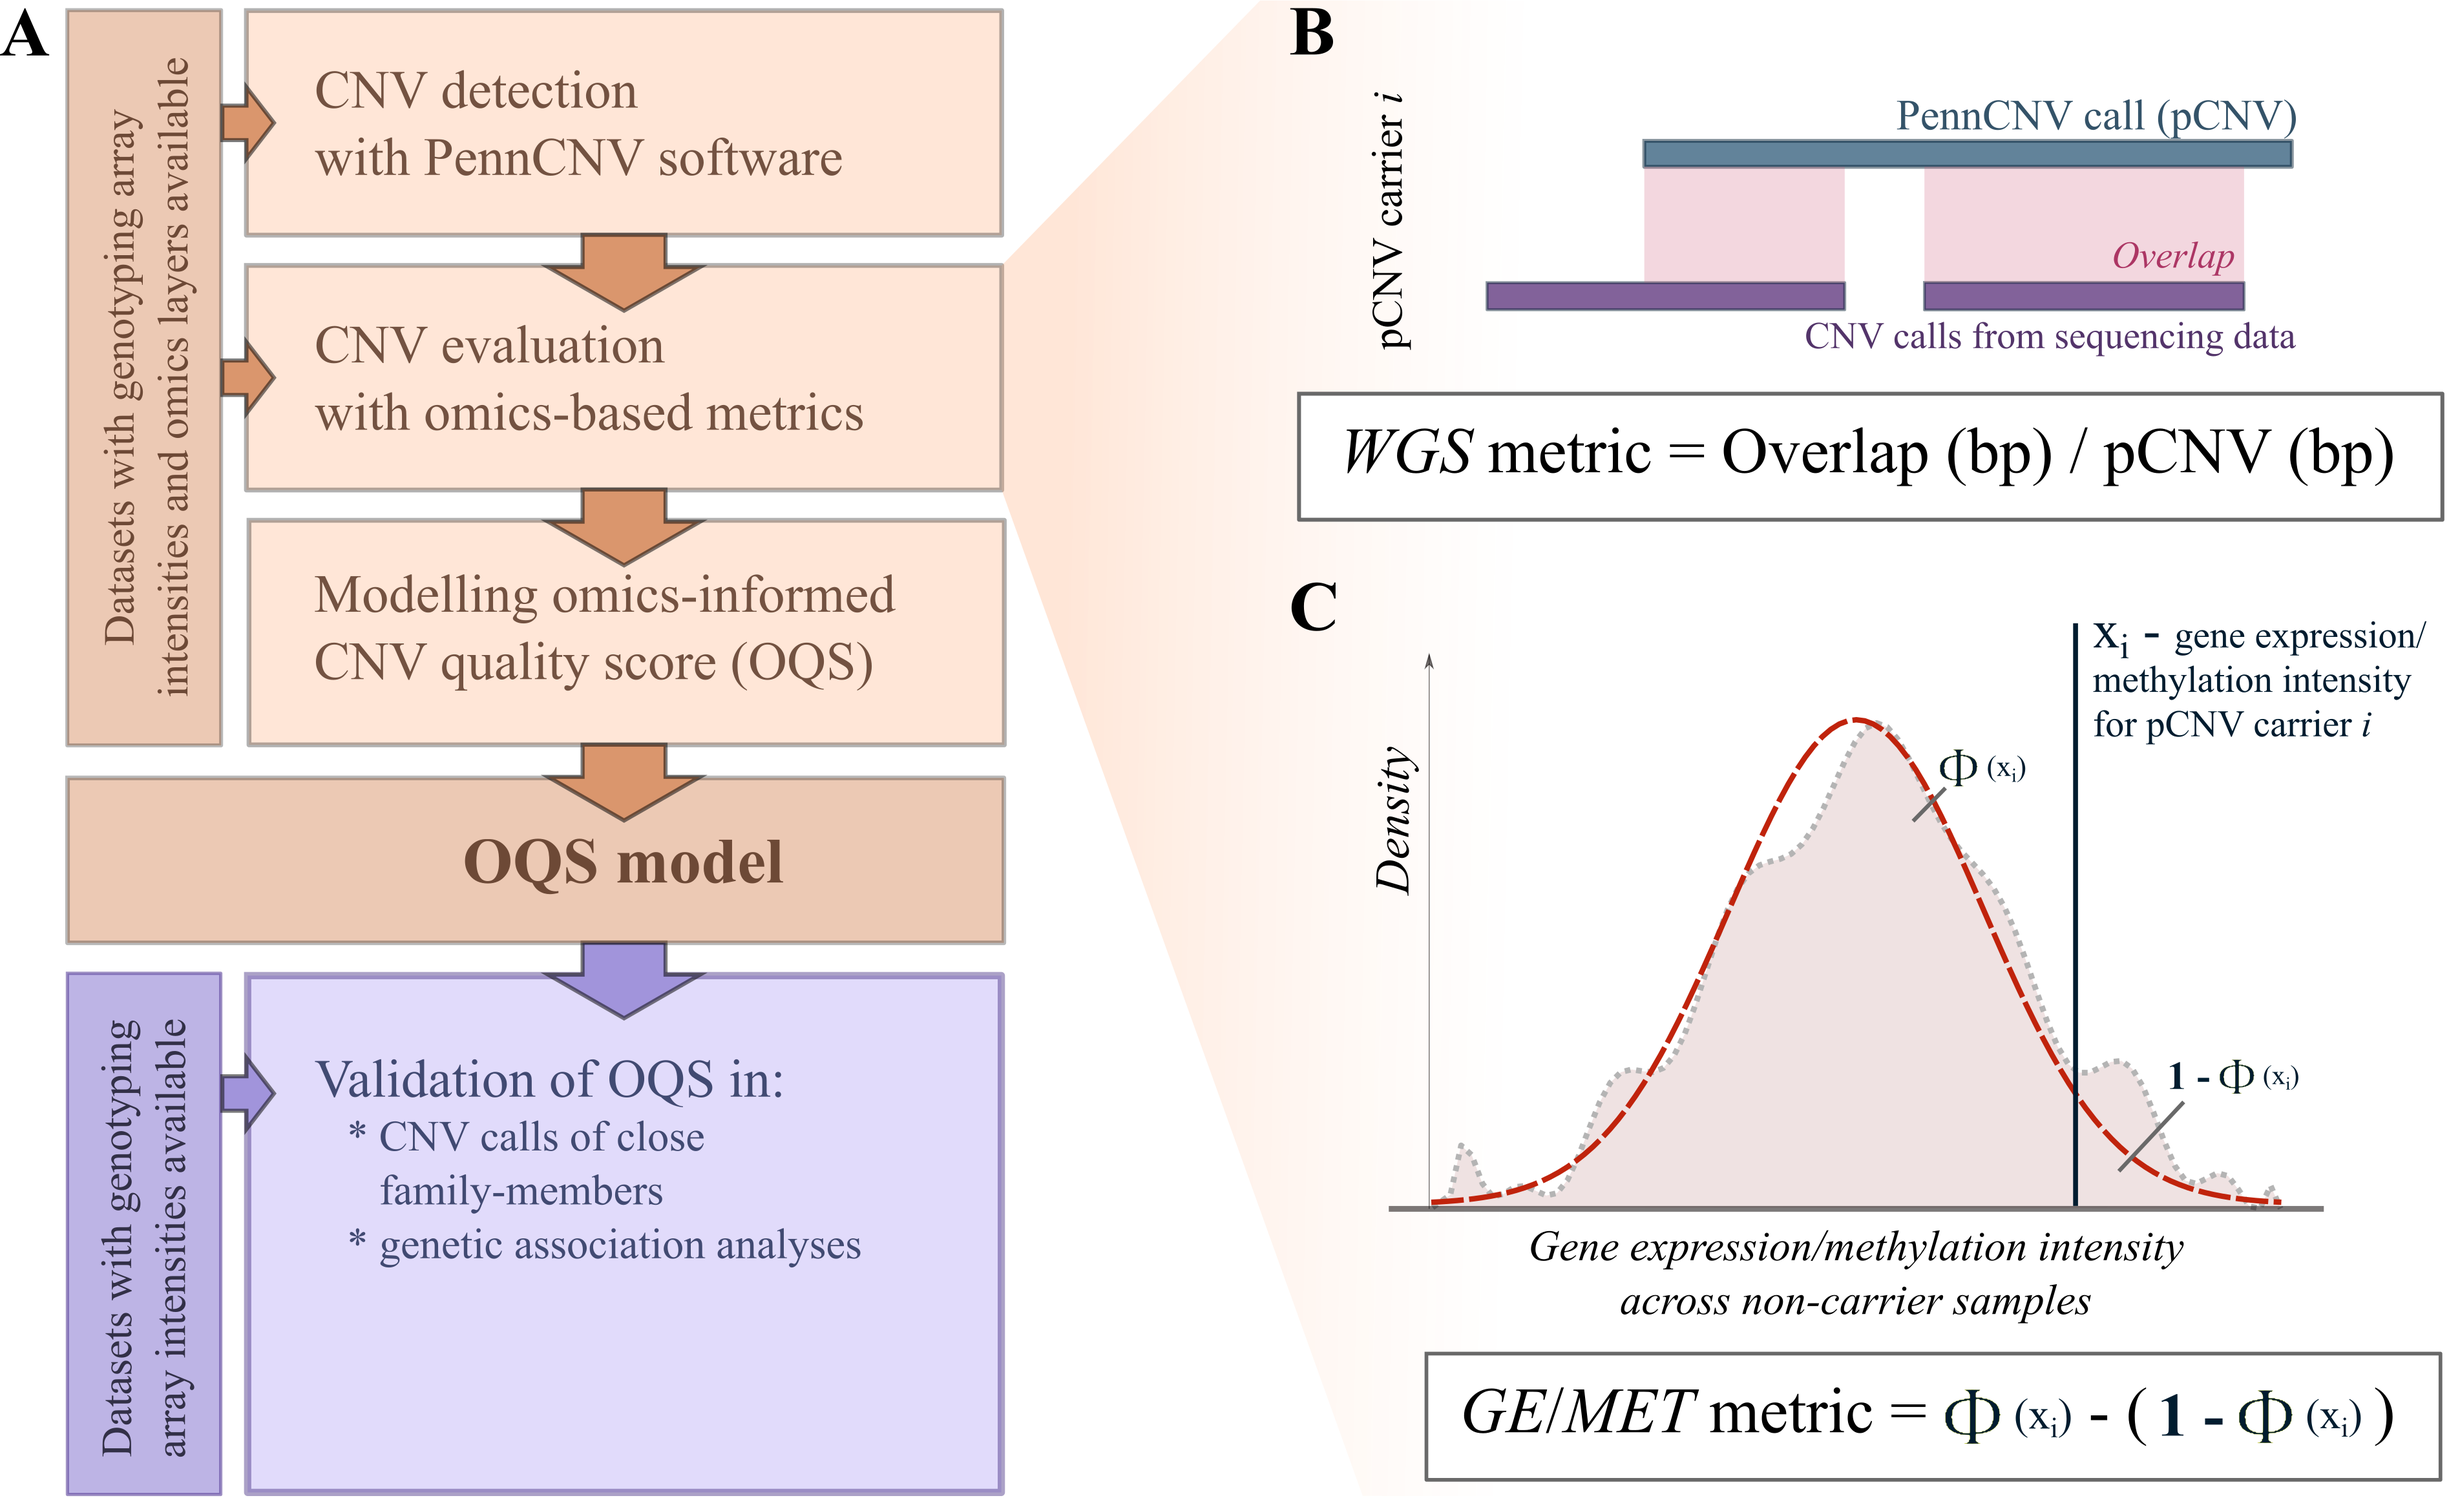
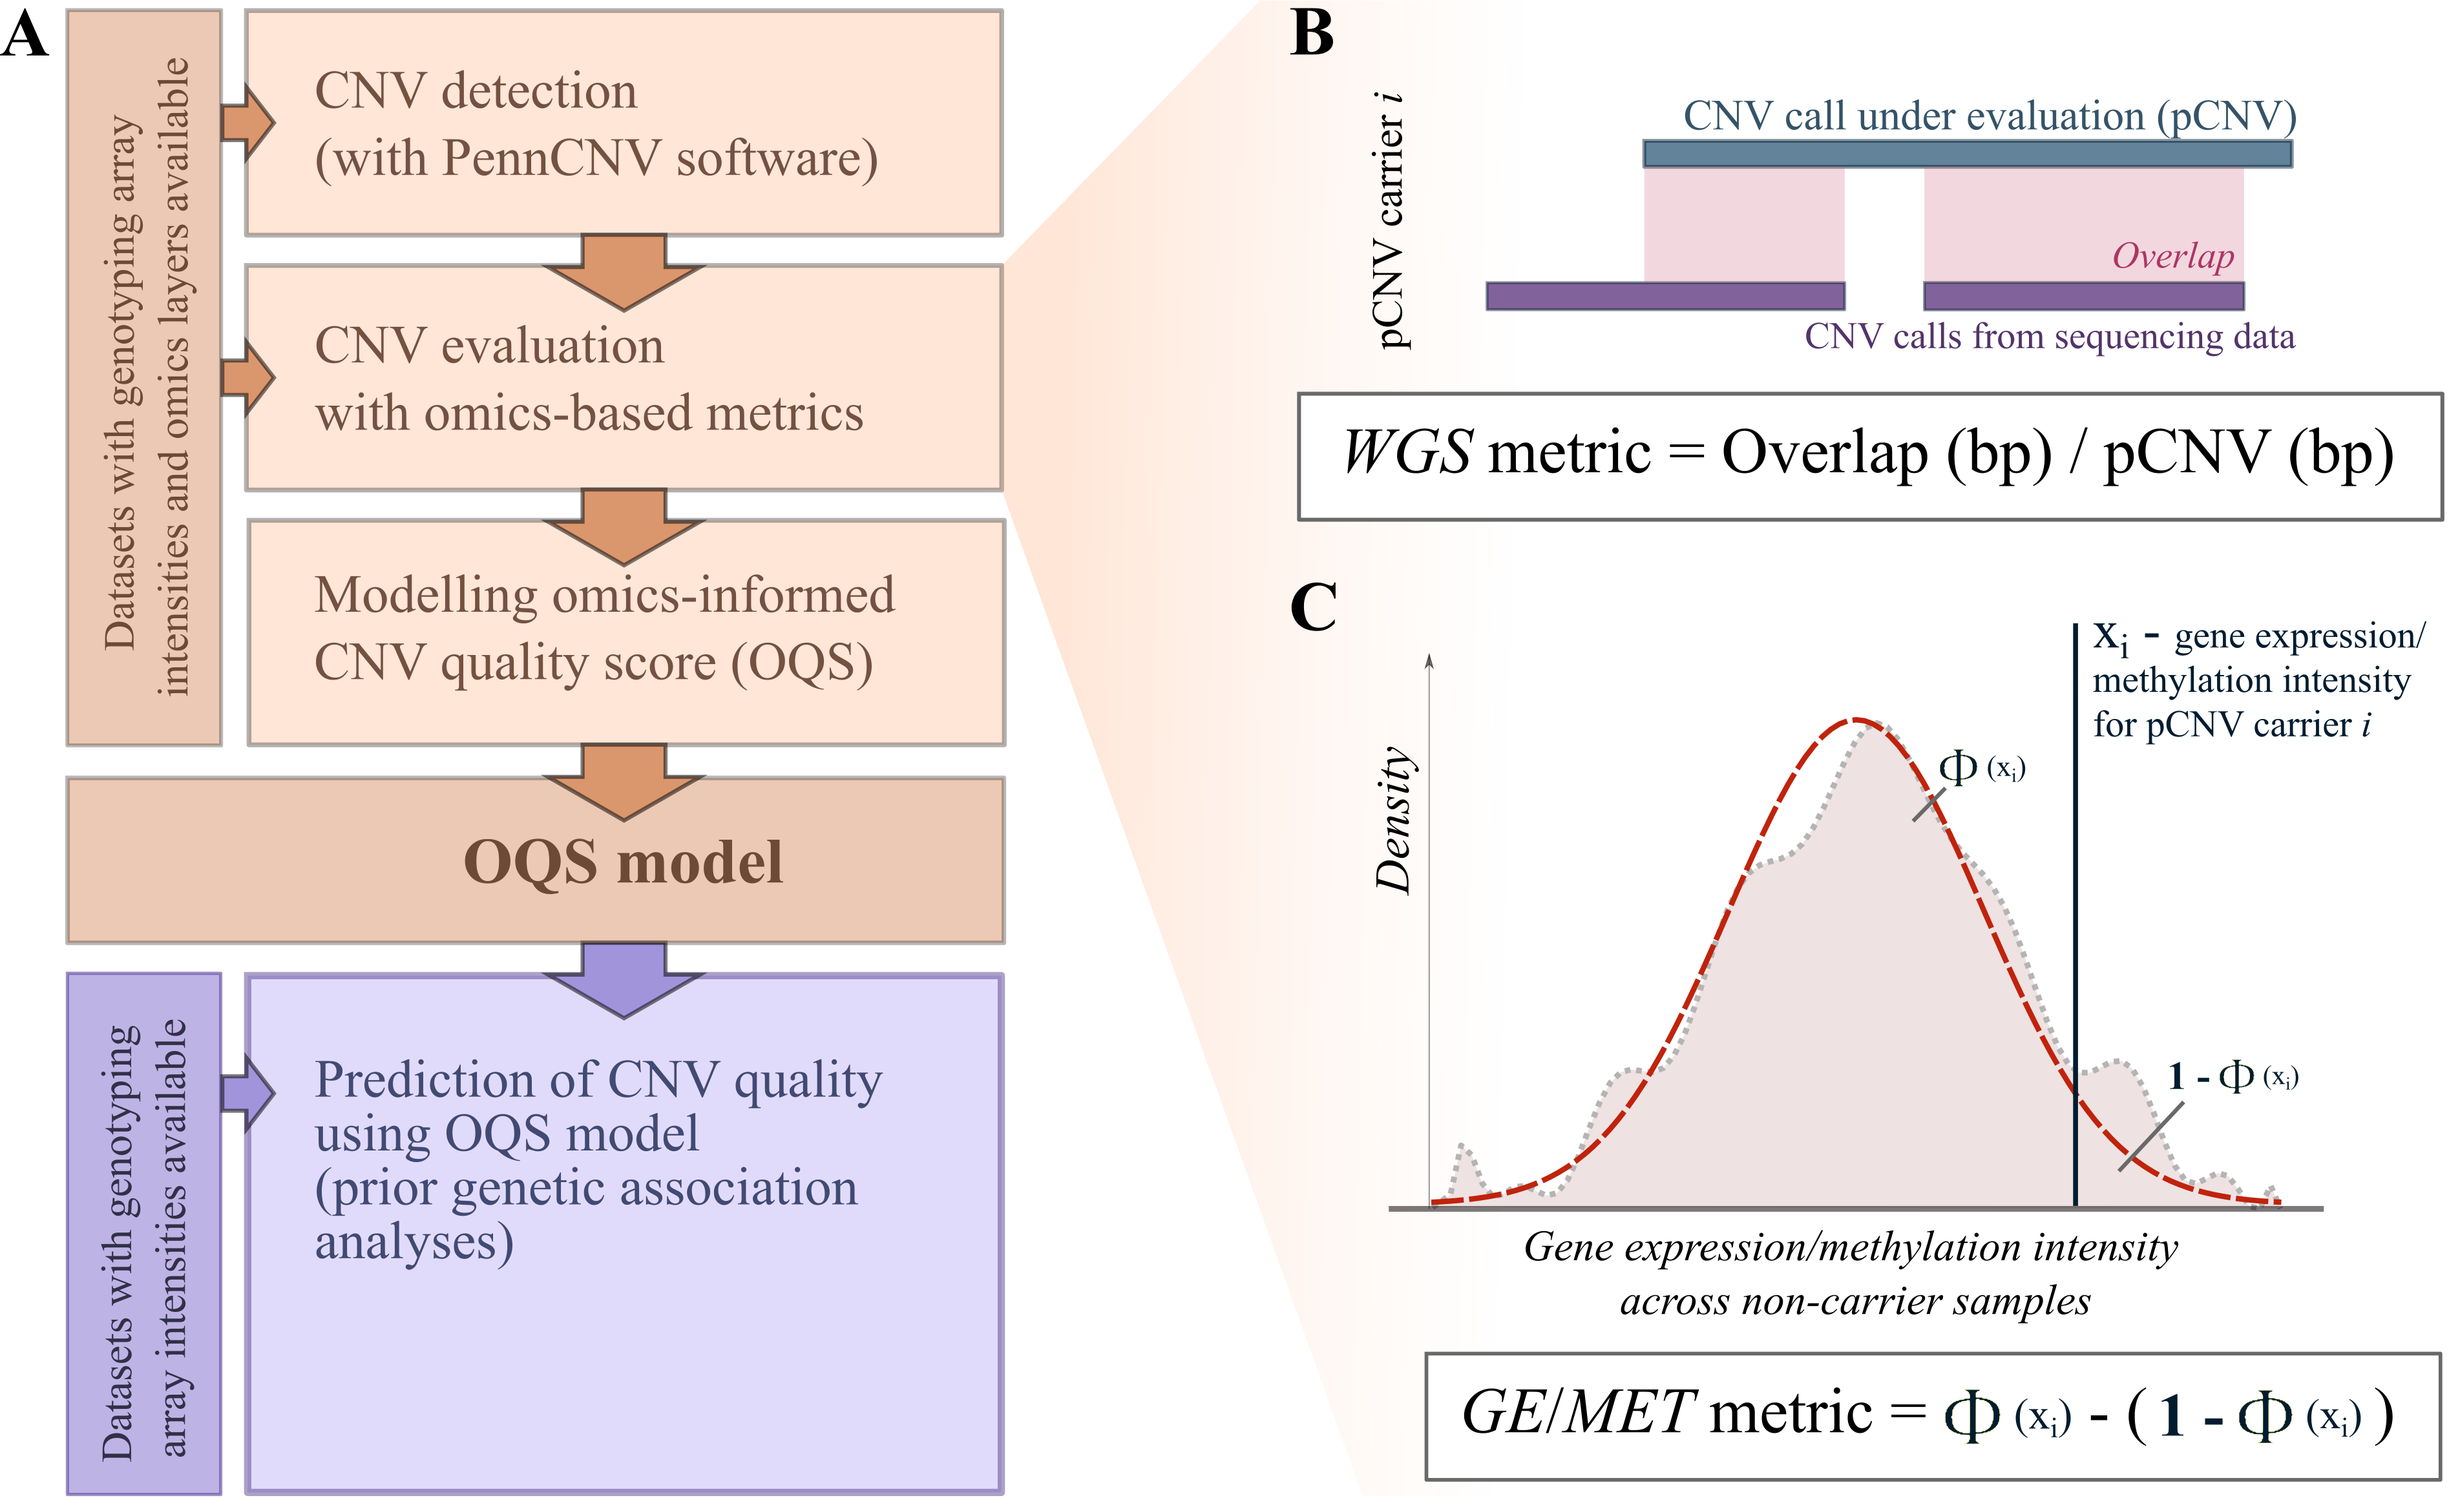
README structure and WGS metric pipeline

diff --git a/README.md b/README.md
@@ -30,7 +30,7 @@ Our workflow (**Figure 1A**) can be summarised by the following steps:
 
 ![Fig1](figures/fig1_overview.png)
 
-***Figure 1.*** *jou*
+***Figure 1.*** *(A) Quality estimation and modelling pipeline for copy number variation calls (pCNV). The pCNV quality metrics are estimated based on (B) whole genome sequencing (WGS) data and (C) gene expression (GE) and/or overall methylation intensity (MET) of genes/CpG sites overlapping the corresponding CNV call. (B) WGS metric is a fraction of pCNV that can be mapped to WGS CNVs of the same individual. (C) To calculate GE/MET metrics, the reference distribution of expression/intensity based on non-carriers (pink area) is approximated to standard normal distribution (red dashed line) and the Z score of the expression/intensity of each pCNV carrier (x<sub>i</sub>) is compared to it one at a time. The metric is a difference between the fraction of non-carriers with the corresponding value ≤xi and those with the corresponding value >x<sub>i</sub> and captures how extreme x<sub>i</sub> is compared to the reference distribution of non-carriers. In case a pCNV overlaps with several genes/CpG sites, the metric values are averaged over them.*
 
 ---
 
@@ -41,42 +41,114 @@ First, we saw high concordance between our three omics-based metrics. Both GE an
 Secondly, we evaluated the OQS prediction model and demonstrated the improvements achieved using two different approaches: 
 
 * in close family members from three independent datasets, the ‘familial’ CNVs shared between relatives (likely true positives) scored significantly higher with OQS compared to CNVs that were not shared between relatives (mix of true and false positives);
-* considering 21 previously published CNV-trait associations (**LINK**) and 89,516 Estonian Biobank samples, we showed that the relative increase in variance explained was up to 34% and 55% when comparing OQS to raw PennCNV output and a previously published CNV quality score (**LINK**), respectively.
+* considering 21 previously published CNV-trait associations ([Macé *et al.*, 2017](https://doi.org/10.1038/s41467-017-00556-x)) and 89,516 Estonian Biobank samples, we showed that the relative increase in variance explained was up to 34% and 55% when comparing OQS to raw PennCNV output and a previously published consensus-based CNV quality score (cQS) ([Macé *et al.*, 2016](https://doi.org/10.1093/bioinformatics/btw477)), respectively. 
 
+Both approaches (with relevant R scripts) are further discussed **LINKbelowLINK**.  
 
-Both approaches (with relevant R scripts) are further discussed **LINKbelowLINK**.
-For additional information, please see our preprint: **LINK**.
+For additional information, please see our preprint:  
+*Lepamets et al., 2022.* ***Omics-informed CNV calls reduce false positive rate and improve power for CNV-trait associations.*** *bioRxiv.* **LINK**
 
 ## Workflow setup
 
-The analysis is based on a set of R scripts. All scripts are run from the command line.
-R can be downloaded [here](https://www.r-project.org).
+The analysis is based on a set of R scripts. R can be downloaded [here](https://www.r-project.org).
 
-The following list of R packages is required for estimating and modelling CNV quality:
+All the necessary scripts can be downloaded from GitHub:
+
+~~~sh
+git clone https://github.com/maarjl/CNV_OQS.git
+~~~
+
+The scripts are run from the command line. The following list of R packages is required for estimating and modelling CNV quality:
 
 ~~~r
+# In R:
 install.packages("data.table")
+install.packages("dplyr")
+install.packages("stringr")
+install.packages("parallel")
+install.packages("optparse")
 ~~~
 
 Additionally, these packages are required to run all the code in this repository (including validation analyses presented in our paper):
 
 ~~~r
+# In R:
 install.packages("something")
 ~~~
 
 ## General usage
 
-### Input
+### Formatting pCNV table input
+
+#### PennCNV
+
+#### Other software
 
 ### Calculations of quality metrics based on omics layers
 
-#### Based on WGS
+#### Whole-genome sequencing (WGS) metric
+
+WGS metric is calculated as the proportion of an array-based CNV that overlaps with a WGS CNV. This step requires a pCNV table and WGS CNVs containing overlapping set of individuals as input.
+
+##### WGS input conversion
+
+In our study we used WGS CNVs detected with [Genome STRiP pipeline](https://software.broadinstitute.org/software/genomestrip/), which outputs the CNVs in VCF format as described [here](https://www.internationalgenome.org/wiki/Analysis/Variant%20Call%20Format/VCF%20(Variant%20Call%20Format)%20version%204.0/encoding-structural-variants/). Our pipeline requires the presence of CHROM and POS (CNV start position) columns, END tag (CNV end position) in INFO column, CN (copy number) and CNQ/FT (CN quality/filter) tags in FORMAT column/genotype fields. 
+
+First, we only keep the necessary data and convert the VCF file to tab-separated table using [bcftools](https://www.htslib.org/download/):
+
+~~~sh
+bcftools query \
+	-i 'FILTER="PASS"' \
+	-f '%CHROM\t%POS\t%END[\t%SAMPLE:CN=%CN:CNQ=%CNQ:FT=%FT]\n' \
+	example/example_wgs_cnv.vcf > example/example_wgs_cnv.tsv
+~~~
+
+Secondly, we perform the final conversion and filtering using a custom R script. For filtering based on FT tag (PASS/LQ) we run:
+
+~~~sh
+Rscript code/Rscript_wgscnv_preparations.R \
+	-i example/example_wgs_cnv.tsv \
+	--missing 0.1 \
+	-o example/example_wgs_cnv_formatted.tsv
+~~~
+
+Otherwise, it is also possible to filter based on a threshold CNQ value:
+
+~~~sh
+Rscript code/Rscript_wgscnv_preparations.R \
+	-i example/example_wgs_cnv.tsv \
+	--cnq 10 \
+	--missing 0.1 \
+	-o example/example_wgs_cnv_formatted.tsv
+~~~
+
+In both cases, sites with high missingness (after quality filtering) are excluded.
+
+##### WGS metric calculation:
+
+~~~sh
+Rscript code/Rscript_wgs_metric.R \
+	--pcnv example/example_pcnv.tsv \
+	--wgscnv example/example_wgs_cnv_formatted.tsv \
+	--cores 40 \
+	-o example/wgs_metrics.tsv
+~~~
+
+#### Methylation (MET) metric
+
+MET metric is calculated as a measure of methylation intensity deviation of a potential CNV carrier compared to general copy-neutral population. The required input includes the pCNV table and ...
 
 ~~~sh
 mkdir jou
 ~~~
 
-#### Based on methylation or gene expression
+#### Gene expression (GE) metric
+
+GE metric is calculated analogously to MET metric and is as a measure of gene expression deviation of a potential CNV carrier compared to general copy-neutral population. The required input includes the pCNV table and ... 
+
+~~~sh
+mkdir jou
+~~~
 
 ### Modelling CNV quality
 
@@ -101,6 +173,22 @@ Figure of 16p region
 ![](figures/fig_16p.png)
 
 ## Contact and citation
+
+Correspondence should be addressed to:
+
+Maarja Lepamets  
+PhD student, Institute of Genomics, University of Tartu  
+maarja.lepamets@ut.ee
+
+Zoltán Kutalik  
+Associate Professor, Department of Computational Biology, University of Lausanne  
+zoltan.kutalik@unil.ch
+
+---
+
+If you apply our omics-informed CNV quality estimation concept or use the OQS model for PennCNV in your work, please cite the following preprint:  
+
+*Lepamets M., Auwerx C., Nõukas M., Claringbould A., Porcu E., Kals M., Jürgenson T., Estonian Biobank Research Team, Morris A.P., Võsa U., Bochud M., Stringhini S., Wijmenga C., Franke L., Peterson H., Vilo J., Lepik K., Mägi R., Kutalik Z.* ***Omics-informed CNV calls reduce false positive rate and improve power for CNV-trait associations.*** *(2022) bioRxiv.* **LINK**
 
  
 
